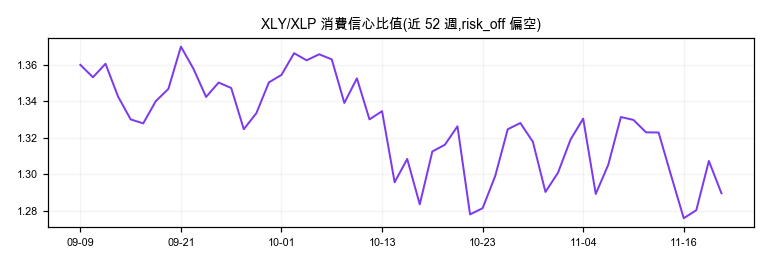
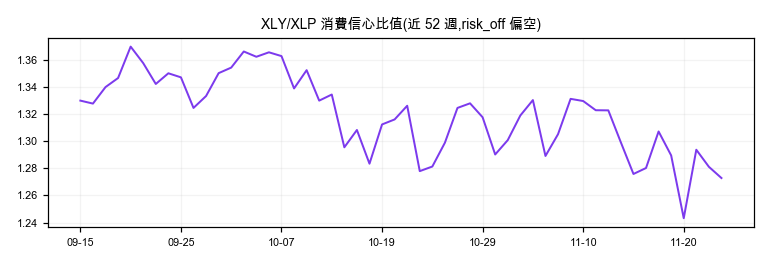
weekly 2026-11-28 情緒週報更新

diff --git a/docs/weekly_2026-11-28.html b/docs/weekly_2026-11-28.html
@@ -1,0 +1,56 @@
+<!DOCTYPE html>
+<html lang="zh-Hant">
+<head>
+  <meta charset="UTF-8">
+  <meta name="viewport" content="width=device-width, initial-scale=1.0">
+  <title>週報 2026-11-28 — 情緒面 + 籌碼</title>
+  <script>try{document.documentElement.dataset.theme=localStorage.getItem('theme')||'dark';}catch(e){document.documentElement.dataset.theme='dark';}</script>
+  <link rel="stylesheet" href="assets/tokens.css?v=b28a42eb">
+  <link rel="stylesheet" href="assets/style_v2.css?v=b28a42eb">
+  <script src="assets/theme.js?v=b28a42eb" defer></script>
+</head>
+<body>
+<header class="page-header">
+  <div class="container">
+    <nav class="page-nav">
+      <a href="index.html">← 回首頁</a>
+      <a href="index_v2.html">📈 儀表板</a>
+      <a href="watchlist_v2.html">📋 Watchlist</a>
+      <a href="tags.html">🔥 主題熱度</a>
+      <span class="page-nav-current">📅 週報</span>
+      <a href="macro_dashboard.html">🌐 宏觀</a>
+    </nav>
+    <h1>📅 每週市場情緒週報</h1>
+    <div class="meta">資料日期 <strong>2026-11-28</strong> ｜ 情緒面 NAAIM + VIX（AAII 已停用）｜ 產出時間 2026-11-28 09:00</div>
+  </div>
+</header>
+<main class="container wk-narrow">
+<div class="wk-errors">⚠ 部分數據源失敗:naaim: NAAIM 頁找不到 USE_Data xlsx 連結(頁面可能改版)</div>
+  <section class="section">
+    <h2>🚨 本週警報</h2>
+    <ul class="wk-alerts"><li class="wk-noalert">本週無極端訊號</li></ul>
+  </section>
+  <section class="section">
+    <h2>😱 情緒面</h2>
+    <div class="wk-cards"><div class="wk-card"><div class="wk-card-label">NAAIM 機構曝險</div><div class="wk-card-val" style="">N/A</div><div class="wk-card-sub">最新 </div></div><div class="wk-card"><div class="wk-card-label">VIX 波動率</div><div class="wk-card-val" style="">23.81</div><div class="wk-card-sub">恐慌指標(替代恐慌貪婪)</div></div></div>
+    
+  </section>
+  <section class="section">
+    <h2>🛒 消費信心(XLY/XLP)</h2>
+    <div class="wk-cards"><div class="wk-card"><div class="wk-card-label">XLY/XLP 比值</div><div class="wk-card-val" style="">1.2729</div><div class="wk-card-sub">偏空</div></div></div>
+    <img class="wk-chart" src="assets/weekly/xly_xlp.png" alt="XLY/XLP 比值">
+  </section>
+  <section class="section">
+    <h2>💰 週融資 + 大盤回顧</h2>
+    <div class="wk-cards"><div class="wk-card"><div class="wk-card-label">市場融資餘額(億元)</div><div class="wk-card-val" style="color:var(--color-down)">5,601.8</div><div class="wk-card-sub">週增減 -1.39%</div></div><div class="wk-card"><div class="wk-card-label">加權指數(週)</div><div class="wk-card-val" style="color:var(--color-up)">39,151.81</div><div class="wk-card-sub">本週 +1.89%</div></div></div>
+    <img class="wk-chart" src="assets/weekly/margin.png" alt="市場融資餘額趨勢(億元)">
+  </section>
+  <section class="section">
+    <h2>🏛 機構訊號區</h2>
+    <h3>💳 信用與流動性</h3><figure class="wk-sig"><img class="wk-chart" src="assets/weekly/sig_hy_oas.png" alt="HY OAS 高收益債利差"><figcaption class="wk-src">來源:FRED BAMLH0A0HYM2(ICE BofA US High Yield OAS)</figcaption></figure><figure class="wk-sig"><img class="wk-chart" src="assets/weekly/sig_t10y2y.png" alt="2s10s 利差"><figcaption class="wk-src">來源:FRED T10Y2Y(10 年期減 2 年期公債利差)</figcaption></figure><h3>🧭 市場內部</h3><figure class="wk-sig"><img class="wk-chart" src="assets/weekly/sig_breadth.png" alt="台股寬度"><figcaption class="wk-src">來源:kline.db 自算(watchlist 台股 106 檔)</figcaption></figure><figure class="wk-sig"><img class="wk-chart" src="assets/weekly/sig_foreign_oi.png" alt="外資台指期淨 OI vs 加權指數"><figcaption class="wk-src">來源:期交所三大法人期貨未平倉(外資)+ TWSE FMTQIK</figcaption></figure><h3>😱 情緒</h3><figure class="wk-sig"><img class="wk-chart" src="assets/weekly/sig_vix_ratio.png" alt="VIX/VIX3M 比值"><figcaption class="wk-src">來源:CBOE VIX / VIX3M(yfinance)</figcaption></figure><h3>🏭 景氣</h3><figure class="wk-sig"><img class="wk-chart" src="assets/weekly/sig_sahm.png" alt="Sahm Rule"><figcaption class="wk-src">來源:FRED SAHMREALTIME(Sahm Rule 即時失業率指標)</figcaption></figure><figure class="wk-sig"><img class="wk-chart" src="assets/weekly/sig_light.png" alt="景氣對策信號"><figcaption class="wk-src">來源:國發會景氣對策信號</figcaption></figure>
+  </section>
+
+  <p class="wk-src">NAAIM 來源:官方 USE_Data since Inception(? 週全量);US 指數/VIX/ETF:yfinance;融資:證交所 OpenAPI。</p>
+</main>
+</body>
+</html>

diff --git a/docs/weekly.html b/docs/weekly.html
@@ -3,7 +3,7 @@
 <head>
   <meta charset="UTF-8">
   <meta name="viewport" content="width=device-width, initial-scale=1.0">
-  <title>週報 2026-11-21 — 情緒面 + 籌碼</title>
+  <title>週報 2026-11-28 — 情緒面 + 籌碼</title>
   <script>try{document.documentElement.dataset.theme=localStorage.getItem('theme')||'dark';}catch(e){document.documentElement.dataset.theme='dark';}</script>
   <link rel="stylesheet" href="assets/tokens.css?v=b28a42eb">
   <link rel="stylesheet" href="assets/style_v2.css?v=b28a42eb">
@@ -21,28 +21,28 @@
       <a href="macro_dashboard.html">🌐 宏觀</a>
     </nav>
     <h1>📅 每週市場情緒週報</h1>
-    <div class="meta">資料日期 <strong>2026-11-21</strong> ｜ 情緒面 NAAIM + VIX（AAII 已停用）｜ 產出時間 2026-11-21 09:00</div>
+    <div class="meta">資料日期 <strong>2026-11-28</strong> ｜ 情緒面 NAAIM + VIX（AAII 已停用）｜ 產出時間 2026-11-28 09:00</div>
   </div>
 </header>
 <main class="container wk-narrow">
 <div class="wk-errors">⚠ 部分數據源失敗:naaim: NAAIM 頁找不到 USE_Data xlsx 連結(頁面可能改版)</div>
   <section class="section">
     <h2>🚨 本週警報</h2>
-    <ul class="wk-alerts"><li>🔴 VIX 35.89 &gt; 25:市場恐慌升溫</li></ul>
+    <ul class="wk-alerts"><li class="wk-noalert">本週無極端訊號</li></ul>
   </section>
   <section class="section">
     <h2>😱 情緒面</h2>
-    <div class="wk-cards"><div class="wk-card"><div class="wk-card-label">NAAIM 機構曝險</div><div class="wk-card-val" style="">N/A</div><div class="wk-card-sub">最新 </div></div><div class="wk-card"><div class="wk-card-label">VIX 波動率</div><div class="wk-card-val" style="">35.89</div><div class="wk-card-sub">恐慌指標(替代恐慌貪婪)</div></div></div>
+    <div class="wk-cards"><div class="wk-card"><div class="wk-card-label">NAAIM 機構曝險</div><div class="wk-card-val" style="">N/A</div><div class="wk-card-sub">最新 </div></div><div class="wk-card"><div class="wk-card-label">VIX 波動率</div><div class="wk-card-val" style="">23.81</div><div class="wk-card-sub">恐慌指標(替代恐慌貪婪)</div></div></div>
     
   </section>
   <section class="section">
     <h2>🛒 消費信心(XLY/XLP)</h2>
-    <div class="wk-cards"><div class="wk-card"><div class="wk-card-label">XLY/XLP 比值</div><div class="wk-card-val" style="">1.2896</div><div class="wk-card-sub">偏空</div></div></div>
+    <div class="wk-cards"><div class="wk-card"><div class="wk-card-label">XLY/XLP 比值</div><div class="wk-card-val" style="">1.2729</div><div class="wk-card-sub">偏空</div></div></div>
     <img class="wk-chart" src="assets/weekly/xly_xlp.png" alt="XLY/XLP 比值">
   </section>
   <section class="section">
     <h2>💰 週融資 + 大盤回顧</h2>
-    <div class="wk-cards"><div class="wk-card"><div class="wk-card-label">市場融資餘額(億元)</div><div class="wk-card-val" style="color:var(--color-down)">5,680.8</div><div class="wk-card-sub">週增減 -20.32%</div></div><div class="wk-card"><div class="wk-card-label">加權指數(週)</div><div class="wk-card-val" style="color:var(--color-down)">38,426.89</div><div class="wk-card-sub">本週 -10.83%</div></div></div>
+    <div class="wk-cards"><div class="wk-card"><div class="wk-card-label">市場融資餘額(億元)</div><div class="wk-card-val" style="color:var(--color-down)">5,601.8</div><div class="wk-card-sub">週增減 -1.39%</div></div><div class="wk-card"><div class="wk-card-label">加權指數(週)</div><div class="wk-card-val" style="color:var(--color-up)">39,151.81</div><div class="wk-card-sub">本週 +1.89%</div></div></div>
     <img class="wk-chart" src="assets/weekly/margin.png" alt="市場融資餘額趨勢(億元)">
   </section>
   <section class="section">
